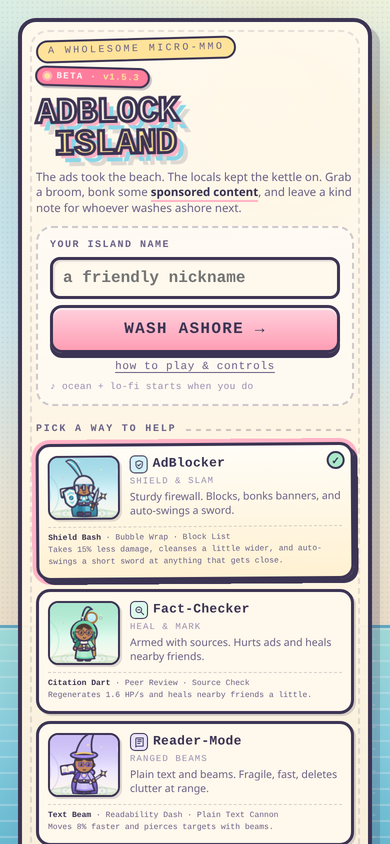
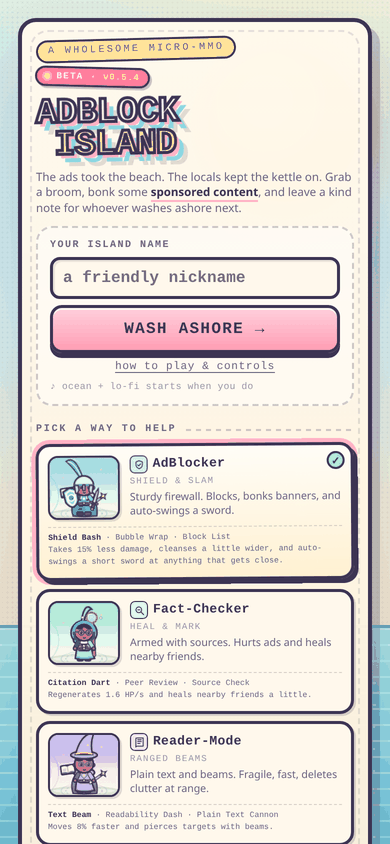
Count the beta from zero (v0.5.4)
The project is a beta, so every release is now numbered 0.x: the changelog history runs 0.0.0 to 0.5.4, and the title badge, build tag, page metadata and help panel all read the same VERSION constant. No 1.x release remains.

The localStorage schema tags follow suit (adblock-island.save.v0, .notes.v0, .settings.v0). Those are storage tags rather than game versions; progress, notes and settings saved under the old keys do not carry over, so the first visit starts fresh.

Screenshots and the social preview card were regenerated so the image assets show v0.5.4 and no longer carry the old number.

diff --git a/index.html b/index.html
@@ -4,7 +4,7 @@
 <meta charset="utf-8">
 <meta name="viewport" content="width=device-width, initial-scale=1, viewport-fit=cover, maximum-scale=1, user-scalable=no">
 <meta name="theme-color" content="#bde8f2">
-<meta name="description" content="AdBlock Island — a wholesome micro-MMO, currently in beta (v1.5.4). Clear the static, bonk the ad-monsters, and leave a kind note on the beach.">
+<meta name="description" content="AdBlock Island — a wholesome micro-MMO, currently in beta (v0.5.4). Clear the static, bonk the ad-monsters, and leave a kind note on the beach.">
 <meta name="author" content="potaterrr">
 <meta name="application-name" content="AdBlock Island">
 <meta name="apple-mobile-web-app-title" content="AdBlock Island">
@@ -1265,7 +1265,7 @@ body.scanlines::after{
         <div class="logo-badges">
           <div class="logo-kicker">a wholesome micro-MMO</div>
           <div class="beta-pill" id="betaPill" title="This is a beta build. The patch notes list what is still pending.">
-            <span class="beta-dot"></span>beta · <b id="betaVersion">v1.5.4</b>
+            <span class="beta-dot"></span>beta · <b id="betaVersion">v0.5.4</b>
           </div>
         </div>
         <h1 class="logo">ADBLOCK<br><span>ISLAND</span></h1>
@@ -1421,7 +1421,7 @@ const ICONS = {
 };
 const svg = (name) => ICONS[name] || ICONS.spark;
 
-const VERSION = '1.5.4';
+const VERSION = '0.5.4';
 
 /* ------------------------------- classes -------------------------------- */
 const CLASSES = {
@@ -1563,9 +1563,9 @@ const NOTE_SEEDS = [
 const BOT_COSMETICS = ['sunhat', 'leaf', 'cat', 'scarf', 'halo', 'antenna', 'crown', 'none', 'sunhat', 'leaf'];
 
 /* ------------------------------- storage -------------------------------- */
-const SAVE_KEY = 'adblock-island.save.v1';
-const NOTES_KEY = 'adblock-island.notes.v1';
-const SETTINGS_KEY = 'adblock-island.settings.v1';
+const SAVE_KEY = 'adblock-island.save.v0';
+const NOTES_KEY = 'adblock-island.notes.v0';
+const SETTINGS_KEY = 'adblock-island.settings.v0';
 const store = {
   get(key, fallback) {
     try { const raw = localStorage.getItem(key); return raw ? JSON.parse(raw) : fallback; }

diff --git a/CHANGELOG.md b/CHANGELOG.md
@@ -44,7 +44,7 @@ The "MMO" in micro-MMO is currently a polite lie: the other players are bots, an
 
 Until then, the honest description is: a single-player and local co-op cozy micro-MMO with bots, in beta.
 
-## [1.5.4] — 2026-10-29
+## [0.5.4] — 2026-10-29
 
 Beta launch polish.
 
@@ -57,10 +57,12 @@ Beta launch polish.
 
 ### Changed
 
+- **The beta now counts from zero.** Every release in this log is numbered `0.x`, from `0.0.0` to this build, so the version line matches the project's actual status. The title badge, the build tag, the page metadata and the help panel all read the same `VERSION` constant.
+- **The local storage keys changed.** They are now `adblock-island.save.v0`, `adblock-island.notes.v0` and `adblock-island.settings.v0`. These are storage-schema tags rather than game versions; progress, kindness notes and settings saved under the old keys do not carry over, so the first visit after this build starts fresh.
 - The page now has a `<noscript>` card explaining that the island needs JavaScript, instead of a dead title screen.
 - Description and preview copy mention the beta and the current version.
 
-## [1.5.3] — 2026-10-29
+## [0.5.3] — 2026-10-29
 
 The wave card gets keyboard manners.
 
@@ -74,7 +76,7 @@ The wave card gets keyboard manners.
 
 - The help panel's controls line now lists `Enter` next to `N` wave choice and `U` upgrades.
 
-## [1.5.2] — 2026-10-29
+## [0.5.2] — 2026-10-29
 
 The wave ladder keeps its promise.
 
@@ -89,13 +91,13 @@ The wave ladder keeps its promise.
 - A save with `won: true` now clears waves 1→10: every wave spawns its full crew (4, 5, 6, 7, 8, 9, 9, 10, 11, 12 ads), every clear opens the choice card with the right medal or item, and wave 10 shows the "You saved this island from serving ads" win card.
 - Pausing immediately after a clear, dying during it, and finishing the boss at the same moment all still lead to the popup.
 
-## [1.5.1] — 2026-10-29
+## [0.5.1] — 2026-10-29
 
 Beta, labelled.
 
 ### Added
 
-- **A beta badge on the title screen.** A loud `beta · v1.5.1` pill sits next to the "wholesome micro-MMO" kicker, and the build tag in the bottom-right corner now reads `v1.5.1 · beta`. The pill's tooltip and the help panel's "This build" block both say the build is a beta.
+- **A beta badge on the title screen.** A loud `beta · v0.5.1` pill sits next to the "wholesome micro-MMO" kicker, and the build tag in the bottom-right corner now reads `v0.5.1 · beta`. The pill's tooltip and the help panel's "This build" block both say the build is a beta.
 - **A "Still pending" section at the top of these patch notes**, covering the achievements and items that are still thin, and the MMORPG essentials — online multiplayer, accounts, moderated chat, parties, quests, economy, anti-cheat, live ops — that a static page cannot provide on its own. Mirrored in the README.
 
 ### Changed
@@ -103,7 +105,7 @@ Beta, labelled.
 - The page `<title>` and `<meta name="description">` now say **beta** and the current version, so link previews and search results match the build.
 - The help panel's "This build" block points at the pending list instead of implying the game is finished.
 
-## [1.5.0] — 2026-10-29
+## [0.5.0] — 2026-10-29
 
 Waves become a ladder you climb on purpose.
 
@@ -122,7 +124,7 @@ Waves become a ladder you climb on purpose.
 - The HUD wave card is now a button when a wave is cleared ("cleared · tap to choose") and shows the countdown while one is running.
 - The pause screen "current plan" follows the wave state, and the help panel documents the choice, the countdown and the ladder's ending.
 
-## [1.4.3] — 2026-10-29
+## [0.4.3] — 2026-10-29
 
 The island gets its story told.
 
@@ -130,13 +132,13 @@ The island gets its story told.
 
 - **A backstory in the help panel.** Pressing `H` now opens with "The story so far": the ads came with the tide, the locals kept the kettle on, and you wash ashore with a broom and nowhere else to be. Two short paragraphs above the existing plan, class abilities, controls, ads, waves and co-op blocks.
 - **A credit and disclaimer footer.** The bottom of the help panel names it as an original solo project by [@potaterrr](https://github.com/potaterrr), links to the source, and notes that every asset is hand-written — no third-party art, fonts, audio, or libraries — and that the game is a work of parody with no real advertisers involved.
-- **README: backstory, how to play, patch notes, disclaimer.** The readme now opens with the island's story, then a seven-step how-to-play that matches the actual game loop (classes, aim, cleansing, waves, the Algorithm, the bench, co-op), then a patch-notes table covering every release from 1.0.0 to 1.4.3, then a plain-language disclaimer: original work by potaterrr, no third-party assets, no affiliation, no data collection.
+- **README: backstory, how to play, patch notes, disclaimer.** The readme now opens with the island's story, then a seven-step how-to-play that matches the actual game loop (classes, aim, cleansing, waves, the Algorithm, the bench, co-op), then a patch-notes table covering every release from 0.0.0 to 0.4.3, then a plain-language disclaimer: original work by potaterrr, no third-party assets, no affiliation, no data collection.
 
 ### Changed
 
 - The "note on the fiction" paragraph moved into the fuller disclaimer at the end of the README, so the affiliation and parody notice sits next to the ownership statement instead of being buried mid-document.
 
-## [1.4.2] — 2026-10-29
+## [0.4.2] — 2026-10-29
 
 The title screen gets the phone treatment too.
 
@@ -146,7 +148,7 @@ The title screen gets the phone treatment too.
 - **Phone-sized class blurbs.** Each class has a two-line description for the compact card, so nothing is cut off with an ellipsis. Desktop and tablet keep the original longer copy.
 - Tighter title spacing under 500px (logo, tagline, name field, button, links) so the "wash ashore" button and the whole picker share the first screen.
 
-## [1.4.1] — 2026-10-29
+## [0.4.1] — 2026-10-29
 
 A phone-sized pass over the controls.
 
@@ -157,7 +159,7 @@ A phone-sized pass over the controls.
 - **The wave banner** keeps its tier on one line and sits below the top cards instead of on top of them.
 - **Short and landscape screens.** The title screen now scrolls from the top instead of centering itself out of reach, so "wash ashore" can't be pushed off-screen, and full-screen layers use `dvh` so a mobile browser's toolbar can't cover the bottom controls.
 
-## [1.4.0] — 2026-10-29
+## [0.4.0] — 2026-10-29
 
 Waves, a friend on the arrow keys, and aim that stops guessing.
 
@@ -175,7 +177,7 @@ Waves, a friend on the arrow keys, and aim that stops guessing.
 
 - The AdBlocker's auto-sword could still draw attention to the wrong direction; it now has its own arc colour and never modifies the aim.
 
-## [1.3.2] — 2026-10-29
+## [0.3.2] — 2026-10-29
 
 Attacks now go where you point.
 
@@ -188,7 +190,7 @@ Attacks now go where you point.
 
 - The auto-swing draws its own small gold arc, separate from the shield bash, so you can tell the two apart.
 
-## [1.3.1] — 2026-10-29
+## [0.3.1] — 2026-10-29
 
 The mouse works everywhere now.
 
@@ -202,7 +204,7 @@ The mouse works everywhere now.
 
 - Two faint pips in front of the hero show the aim direction at a glance.
 
-## [1.3.0] — 2026-10-29
+## [0.3.0] — 2026-10-29
 
 Aiming, weapons, and paperwork.
 
@@ -221,15 +223,15 @@ Aiming, weapons, and paperwork.
 
 ### Removed
 
-- The enemy-lock reticle from 1.2.0. It was helpful, but it stole the cursor from players who wanted to keep aiming by hand.
+- The enemy-lock reticle from 0.2.0. It was helpful, but it stole the cursor from players who wanted to keep aiming by hand.
 
-## [1.2.0] — 2026-10-29
+## [0.2.0] — 2026-10-29
 
 ### Added
 
 - The aim cursor travels with the player: it rides ahead of you while walking, and a mobile pip shows the stick direction.
 
-## [1.1.0] — 2026-10-29
+## [0.1.0] — 2026-10-29
 
 ### Added
 
@@ -243,7 +245,7 @@ Aiming, weapons, and paperwork.
 
 - HUD portraits, cosmetic previews, bots, and the player all share one hero renderer.
 
-## [1.0.0] — 2026-10-29
+## [0.0.0] — 2026-10-29
 
 ### Added
 

diff --git a/README.md b/README.md
@@ -1,6 +1,6 @@
 # AdBlock Island
 
-**v1.5.4 · beta** · [Play it](https://potaterrr.github.io/adblock-island/) · [Patch notes](CHANGELOG.md)
+**v0.5.4 · beta** · [Play it](https://potaterrr.github.io/adblock-island/) · [Patch notes](CHANGELOG.md)
 
 A wholesome micro-MMO in a single HTML file, currently in **beta**. The ads took the beach, the locals kept the kettle on. Pick a class, sweep the static, bonk the ad-monsters, and leave a kind note for whoever washes ashore next.
 
@@ -12,7 +12,11 @@ index.html   ← the entire game (≈300 KB, markup + CSS + renderer + audio + l
 
 ## Status: beta
 
-**v1.5.4 is a beta.** The island is playable end to end — three classes, the wave ladder, medals, items, the Algorithm, kindness notes and same-keyboard co-op — but it is not a finished MMORPG.
+**v0.5.4 is a beta.** The island is playable end to end — three classes, the wave ladder, medals, items, the Algorithm, kindness notes and same-keyboard co-op — but it is not a finished MMORPG.
+
+Versions count from zero while the game is in beta, so every release is `0.x`; the title card's build tag and the top entry of the patch notes always agree.
+
+Storage keys: `adblock-island.save.v0`, `adblock-island.notes.v0` and `adblock-island.settings.v0`. They are schema tags rather than versions, and they live in `localStorage` only.
 
 Still pending, in short:
 
@@ -186,9 +190,9 @@ If you use Jekyll and want the file served untouched, keep the empty `.nojekyll`
 
 The game stores three keys in `localStorage`:
 
-- `adblock-island.save.v1` — name, class, level, Joy, upgrades, cosmetics, stats, boss progress, corruption map
-- `adblock-island.notes.v1` — the local kindness wall
-- `adblock-island.settings.v1` — volume, mute, scanlines, particles, numbers, reduced motion
+- `adblock-island.save.v0` — name, class, level, Joy, upgrades, cosmetics, stats, boss progress, corruption map
+- `adblock-island.notes.v0` — the local kindness wall
+- `adblock-island.settings.v0` — volume, mute, scanlines, particles, numbers, reduced motion
 
 Clearing site data resets the island. Nothing is sent anywhere.
 
@@ -212,21 +216,21 @@ The full history lives in **[CHANGELOG.md](CHANGELOG.md)**, newest first, and th
 
 | Version | Date | Headline |
 | --- | --- | --- |
-| [1.5.4](CHANGELOG.md#154--2026-10-29) | 2026-10-29 | Beta launch polish: social card, richer previews, screenshots |
-| [1.5.3](CHANGELOG.md#153--2026-10-29) | 2026-10-29 | Enter takes the next wave; U opens upgrades from the cleared card |
-| [1.5.2](CHANGELOG.md#152--2026-10-29) | 2026-10-29 | Waves keep running after the island victory; clear popup can no longer be lost |
-| [1.5.1](CHANGELOG.md#151--2026-10-29) | 2026-10-29 | Beta label and version on the splash screen; "Still pending" notes |
-| [1.5.0](CHANGELOG.md#150--2026-10-29) | 2026-10-29 | Upgrade-or-next-wave choice, 10s countdown, medals, items, story chapters |
-| [1.4.3](CHANGELOG.md#143--2026-10-29) | 2026-10-29 | Backstory and credits in the help panel, documented README |
-| [1.4.2](CHANGELOG.md#142--2026-10-29) | 2026-10-29 | Compact phone class picker; all three classes on one screen |
-| [1.4.1](CHANGELOG.md#141--2026-10-29) | 2026-10-29 | Touch controls and HUD scaled to fit phones |
-| [1.4.0](CHANGELOG.md#140--2026-10-29) | 2026-10-29 | Escalating waves, wave HUD, same-keyboard co-op |
-| [1.3.2](CHANGELOG.md#132--2026-10-29) | 2026-10-29 | Aim follows the player; chibi hero renderer |
-| [1.3.1](CHANGELOG.md#131--2026-10-29) | 2026-10-29 | Kindness wall and bench sitting |
-| [1.3.0](CHANGELOG.md#130--2026-10-29) | 2026-10-29 | The Algorithm boss fight |
-| [1.2.0](CHANGELOG.md#120--2026-10-29) | 2026-10-29 | Upgrade shop, cosmetics, save data |
-| [1.1.0](CHANGELOG.md#110--2026-10-29) | 2026-10-29 | Procedural audio, settings, accessibility toggles |
-| [1.0.0](CHANGELOG.md#100--2026-10-29) | 2026-10-29 | First build: the island, three classes, static cleansing |
+| [0.5.4](CHANGELOG.md#054--2026-10-29) | 2026-10-29 | Beta launch polish: social card, richer previews, screenshots |
+| [0.5.3](CHANGELOG.md#053--2026-10-29) | 2026-10-29 | Enter takes the next wave; U opens upgrades from the cleared card |
+| [0.5.2](CHANGELOG.md#052--2026-10-29) | 2026-10-29 | Waves keep running after the island victory; clear popup can no longer be lost |
+| [0.5.1](CHANGELOG.md#051--2026-10-29) | 2026-10-29 | Beta label and version on the splash screen; "Still pending" notes |
+| [0.5.0](CHANGELOG.md#050--2026-10-29) | 2026-10-29 | Upgrade-or-next-wave choice, 10s countdown, medals, items, story chapters |
+| [0.4.3](CHANGELOG.md#043--2026-10-29) | 2026-10-29 | Backstory and credits in the help panel, documented README |
+| [0.4.2](CHANGELOG.md#042--2026-10-29) | 2026-10-29 | Compact phone class picker; all three classes on one screen |
+| [0.4.1](CHANGELOG.md#041--2026-10-29) | 2026-10-29 | Touch controls and HUD scaled to fit phones |
+| [0.4.0](CHANGELOG.md#040--2026-10-29) | 2026-10-29 | Escalating waves, wave HUD, same-keyboard co-op |
+| [0.3.2](CHANGELOG.md#032--2026-10-29) | 2026-10-29 | Aim follows the player; chibi hero renderer |
+| [0.3.1](CHANGELOG.md#031--2026-10-29) | 2026-10-29 | Kindness wall and bench sitting |
+| [0.3.0](CHANGELOG.md#030--2026-10-29) | 2026-10-29 | The Algorithm boss fight |
+| [0.2.0](CHANGELOG.md#020--2026-10-29) | 2026-10-29 | Upgrade shop, cosmetics, save data |
+| [0.1.0](CHANGELOG.md#010--2026-10-29) | 2026-10-29 | Procedural audio, settings, accessibility toggles |
+| [0.0.0](CHANGELOG.md#000--2026-10-29) | 2026-10-29 | First build: the island, three classes, static cleansing |
 
 ## Disclaimer
 
